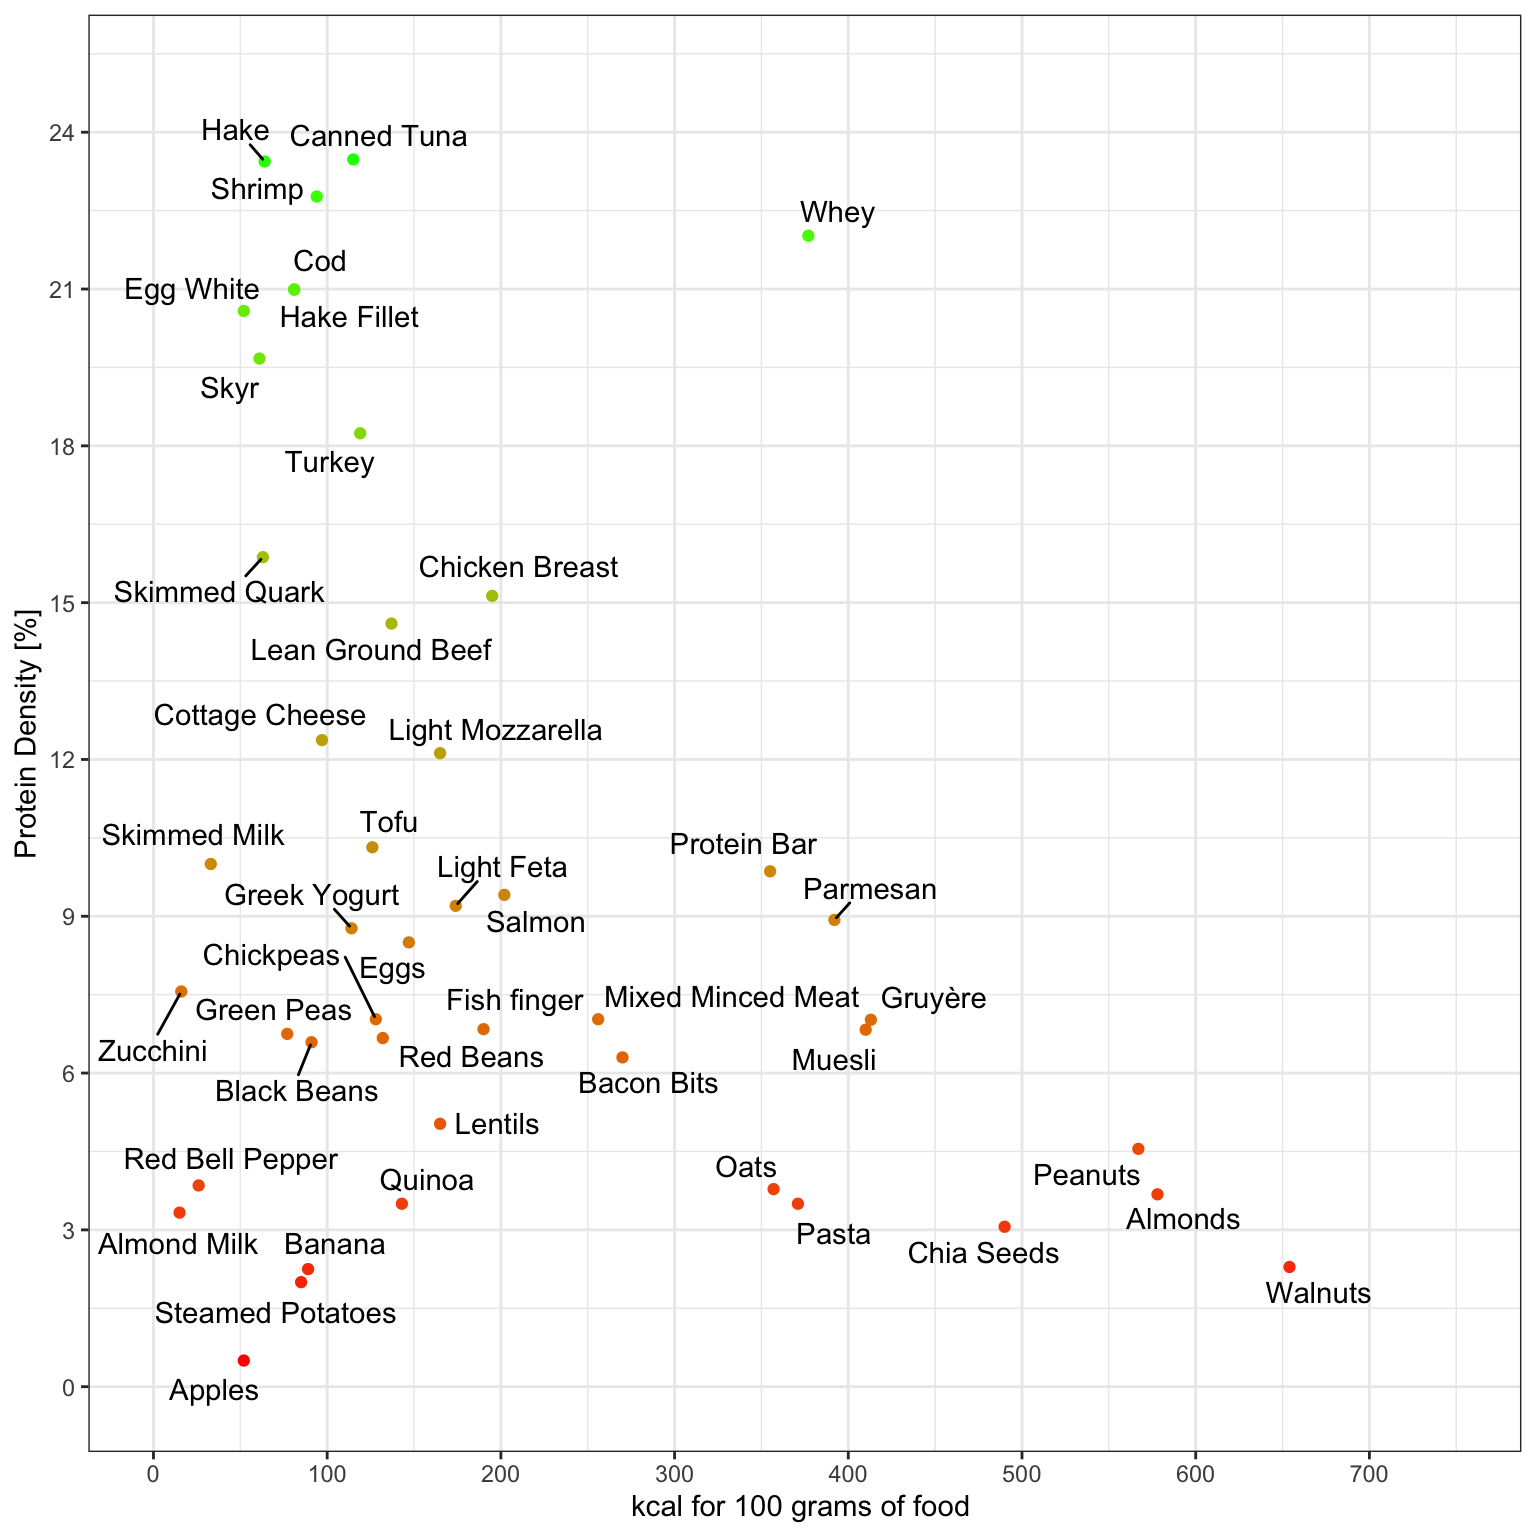
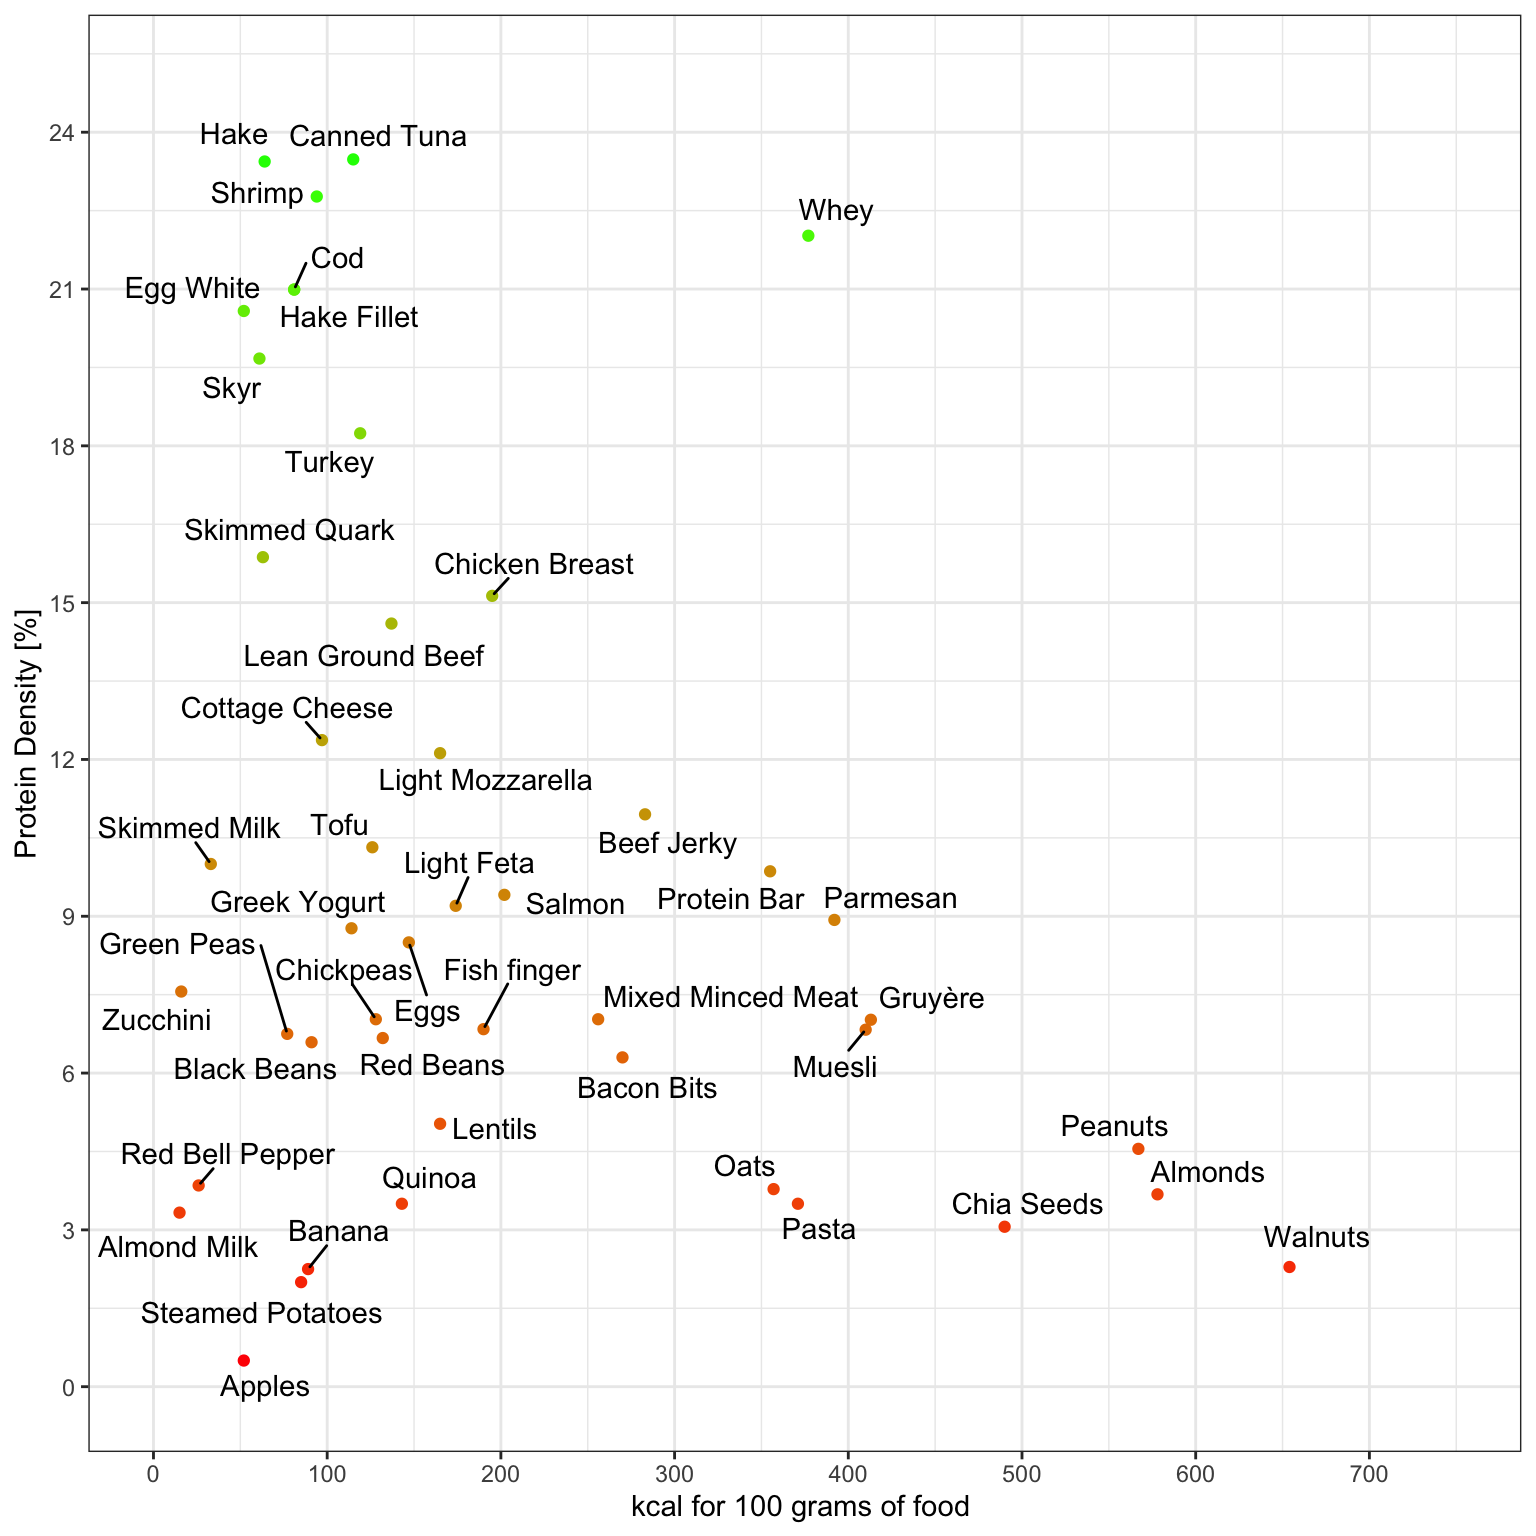
adding beef jerky

diff --git a/dashboard.html b/dashboard.html
@@ -7,7 +7,7 @@
 <meta name="viewport" content="width=device-width, initial-scale=1.0, user-scalable=yes">
 
 <meta name="author" content="Andrés A.">
-<meta name="dcterms.date" content="2024-10-04">
+<meta name="dcterms.date" content="2024-11-27">
 
 <title>NutriPlot</title>
 <style>
@@ -116,7 +116,7 @@ pre > code.sourceCode > span > a:first-child::before { text-decoration: underlin
     <div>
     <div class="quarto-title-meta-heading">Published</div>
     <div class="quarto-title-meta-contents">
-      <p class="date">October 4, 2024</p>
+      <p class="date">November 27, 2024</p>
     </div>
   </div>
   
@@ -219,8 +219,8 @@ Figure&nbsp;1: for 100g of content
 <span id="cb2-13"><a href="#cb2-13" aria-hidden="true" tabindex="-1"></a>t</span></code><button title="Copy to Clipboard" class="code-copy-button"><i class="bi"></i></button></pre></div>
 </details>
 <div class="cell-output-display">
-<div class="datatables html-widget html-fill-item" id="htmlwidget-0002924cc18f55c230c9" style="width:100%;height:auto;"></div>
-<script type="application/json" data-for="htmlwidget-0002924cc18f55c230c9">{"x":{"crosstalkOptions":{"key":["1","2","3","4","5","6","7","8","9","10","11","12","13","14","15","16","17","18","19","20","21","22","23","24","25","26","27","28","29","30","31","32","33","34","35","36","37","38","39","40","41","42","43","44","45"],"group":"SharedData7daa4e6b"},"filter":"top","vertical":false,"filterHTML":"<tr>\n  <td data-type=\"character\" style=\"vertical-align: top;\">\n    <div class=\"form-group has-feedback\" style=\"margin-bottom: auto;\">\n      <input type=\"search\" placeholder=\"All\" class=\"form-control\" style=\"width: 100%;\"/>\n      <span class=\"glyphicon glyphicon-remove-circle form-control-feedback\"><\/span>\n    <\/div>\n  <\/td>\n  <td data-type=\"number\" style=\"vertical-align: top;\">\n    <div class=\"form-group has-feedback\" style=\"margin-bottom: auto;\">\n      <input type=\"search\" placeholder=\"All\" class=\"form-control\" style=\"width: 100%;\"/>\n      <span class=\"glyphicon glyphicon-remove-circle form-control-feedback\"><\/span>\n    <\/div>\n    <div style=\"display: none;position: absolute;width: 200px;opacity: 1\">\n      <div data-min=\"15\" data-max=\"654\"><\/div>\n      <span style=\"float: left;\"><\/span>\n      <span style=\"float: right;\"><\/span>\n    <\/div>\n  <\/td>\n  <td data-type=\"number\" style=\"vertical-align: top;\">\n    <div class=\"form-group has-feedback\" style=\"margin-bottom: auto;\">\n      <input type=\"search\" placeholder=\"All\" class=\"form-control\" style=\"width: 100%;\"/>\n      <span class=\"glyphicon glyphicon-remove-circle form-control-feedback\"><\/span>\n    <\/div>\n    <div style=\"display: none;position: absolute;width: 200px;opacity: 1\">\n      <div data-min=\"0.26\" data-max=\"83\" data-scale=\"2\"><\/div>\n      <span style=\"float: left;\"><\/span>\n      <span style=\"float: right;\"><\/span>\n    <\/div>\n  <\/td>\n  <td data-type=\"number\" style=\"vertical-align: top;\">\n    <div class=\"form-group has-feedback\" style=\"margin-bottom: auto;\">\n      <input type=\"search\" placeholder=\"All\" class=\"form-control\" style=\"width: 100%;\"/>\n      <span class=\"glyphicon glyphicon-remove-circle form-control-feedback\"><\/span>\n    <\/div>\n    <div style=\"display: none;position: absolute;width: 200px;opacity: 1\">\n      <div data-min=\"0.5\" data-max=\"23.48\" data-scale=\"2\"><\/div>\n      <span style=\"float: left;\"><\/span>\n      <span style=\"float: right;\"><\/span>\n    <\/div>\n  <\/td>\n<\/tr>","data":[["Canned Tuna","Hake","Shrimp","Whey","Cod","Hake Fillet","Egg White","Skyr","Turkey","Skimmed Quark","Chicken Breast","Lean Ground Beef","Cottage Cheese","Light Mozzarella","Tofu","Skimmed Milk","Protein Bar","Salmon","Light Feta","Parmesan","Greek Yogurt","Eggs","Zucchini","Chickpeas","Mixed Minced Meat","Gruyère","Fish finger","Muesli","Green Peas","Red Beans","Black Beans","Bacon Bits","Lentils","Peanuts","Red Bell Pepper","Oats","Almonds","Quinoa","Pasta","Almond Milk","Chia Seeds","Walnuts","Banana","Steamed Potatoes","Apples"],[115,64,94,377,81,81,52,61,119,63,195,137,97,165,126,33,355,202,174,392,114,147,16,128,256,413,190,410,77,132,91,270,165,567,26,357,578,143,371,15,490,654,89,85,52],[27,15,21.4,83,17,17,10.7,12,21.7,10,29.5,20,12,20,13,3.3,35,19,16,35,10,12.5,1.21,9,18,29,13,28,5.2,8.800000000000001,6,17,8.300000000000001,25.8,1,13.5,21.26,5,13,0.5,15,15,2,1.7,0.26],[23.48,23.44,22.77,22.02,20.99,20.99,20.58,19.67,18.24,15.87,15.13,14.6,12.37,12.12,10.32,10,9.859999999999999,9.41,9.199999999999999,8.93,8.77,8.5,7.56,7.03,7.03,7.02,6.84,6.83,6.75,6.67,6.59,6.3,5.03,4.55,3.85,3.78,3.68,3.5,3.5,3.33,3.06,2.29,2.25,2,0.5]],"container":"<table class=\"display\">\n  <thead>\n    <tr>\n      <th>names<\/th>\n      <th>Kcal for 100g<\/th>\n      <th>grams protein for 100g of food<\/th>\n      <th>Protein Density [%]<\/th>\n    <\/tr>\n  <\/thead>\n<\/table>","options":{"paging":true,"pageLength":20,"dom":"t","scrollX":true,"columnDefs":[{"className":"dt-right","targets":[1,2,3]},{"name":"name","targets":0},{"name":"kcal_per_100g","targets":1},{"name":"prot_per_100g","targets":2},{"name":"perc_prot","targets":3}],"order":[],"autoWidth":false,"orderClasses":false,"orderCellsTop":true,"lengthMenu":[10,20,25,50,100]},"selection":{"mode":"single","selected":null,"target":"row","selectable":null}},"evals":[],"jsHooks":[]}</script>
+<div class="datatables html-widget html-fill-item" id="htmlwidget-ee772189efb82c037960" style="width:100%;height:auto;"></div>
+<script type="application/json" data-for="htmlwidget-ee772189efb82c037960">{"x":{"crosstalkOptions":{"key":["1","2","3","4","5","6","7","8","9","10","11","12","13","14","15","16","17","18","19","20","21","22","23","24","25","26","27","28","29","30","31","32","33","34","35","36","37","38","39","40","41","42","43","44","45","46"],"group":"SharedDatac4ecafcd"},"filter":"top","vertical":false,"filterHTML":"<tr>\n  <td data-type=\"character\" style=\"vertical-align: top;\">\n    <div class=\"form-group has-feedback\" style=\"margin-bottom: auto;\">\n      <input type=\"search\" placeholder=\"All\" class=\"form-control\" style=\"width: 100%;\"/>\n      <span class=\"glyphicon glyphicon-remove-circle form-control-feedback\"><\/span>\n    <\/div>\n  <\/td>\n  <td data-type=\"number\" style=\"vertical-align: top;\">\n    <div class=\"form-group has-feedback\" style=\"margin-bottom: auto;\">\n      <input type=\"search\" placeholder=\"All\" class=\"form-control\" style=\"width: 100%;\"/>\n      <span class=\"glyphicon glyphicon-remove-circle form-control-feedback\"><\/span>\n    <\/div>\n    <div style=\"display: none;position: absolute;width: 200px;opacity: 1\">\n      <div data-min=\"15\" data-max=\"654\"><\/div>\n      <span style=\"float: left;\"><\/span>\n      <span style=\"float: right;\"><\/span>\n    <\/div>\n  <\/td>\n  <td data-type=\"number\" style=\"vertical-align: top;\">\n    <div class=\"form-group has-feedback\" style=\"margin-bottom: auto;\">\n      <input type=\"search\" placeholder=\"All\" class=\"form-control\" style=\"width: 100%;\"/>\n      <span class=\"glyphicon glyphicon-remove-circle form-control-feedback\"><\/span>\n    <\/div>\n    <div style=\"display: none;position: absolute;width: 200px;opacity: 1\">\n      <div data-min=\"0.26\" data-max=\"83\" data-scale=\"2\"><\/div>\n      <span style=\"float: left;\"><\/span>\n      <span style=\"float: right;\"><\/span>\n    <\/div>\n  <\/td>\n  <td data-type=\"number\" style=\"vertical-align: top;\">\n    <div class=\"form-group has-feedback\" style=\"margin-bottom: auto;\">\n      <input type=\"search\" placeholder=\"All\" class=\"form-control\" style=\"width: 100%;\"/>\n      <span class=\"glyphicon glyphicon-remove-circle form-control-feedback\"><\/span>\n    <\/div>\n    <div style=\"display: none;position: absolute;width: 200px;opacity: 1\">\n      <div data-min=\"0.5\" data-max=\"23.48\" data-scale=\"2\"><\/div>\n      <span style=\"float: left;\"><\/span>\n      <span style=\"float: right;\"><\/span>\n    <\/div>\n  <\/td>\n<\/tr>","data":[["Canned Tuna","Hake","Shrimp","Whey","Cod","Hake Fillet","Egg White","Skyr","Turkey","Skimmed Quark","Chicken Breast","Lean Ground Beef","Cottage Cheese","Light Mozzarella","Beef Jerky","Tofu","Skimmed Milk","Protein Bar","Salmon","Light Feta","Parmesan","Greek Yogurt","Eggs","Zucchini","Chickpeas","Mixed Minced Meat","Gruyère","Fish finger","Muesli","Green Peas","Red Beans","Black Beans","Bacon Bits","Lentils","Peanuts","Red Bell Pepper","Oats","Almonds","Quinoa","Pasta","Almond Milk","Chia Seeds","Walnuts","Banana","Steamed Potatoes","Apples"],[115,64,94,377,81,81,52,61,119,63,195,137,97,165,283,126,33,355,202,174,392,114,147,16,128,256,413,190,410,77,132,91,270,165,567,26,357,578,143,371,15,490,654,89,85,52],[27,15,21.4,83,17,17,10.7,12,21.7,10,29.5,20,12,20,31,13,3.3,35,19,16,35,10,12.5,1.21,9,18,29,13,28,5.2,8.800000000000001,6,17,8.300000000000001,25.8,1,13.5,21.26,5,13,0.5,15,15,2,1.7,0.26],[23.48,23.44,22.77,22.02,20.99,20.99,20.58,19.67,18.24,15.87,15.13,14.6,12.37,12.12,10.95,10.32,10,9.859999999999999,9.41,9.199999999999999,8.93,8.77,8.5,7.56,7.03,7.03,7.02,6.84,6.83,6.75,6.67,6.59,6.3,5.03,4.55,3.85,3.78,3.68,3.5,3.5,3.33,3.06,2.29,2.25,2,0.5]],"container":"<table class=\"display\">\n  <thead>\n    <tr>\n      <th>names<\/th>\n      <th>Kcal for 100g<\/th>\n      <th>grams protein for 100g of food<\/th>\n      <th>Protein Density [%]<\/th>\n    <\/tr>\n  <\/thead>\n<\/table>","options":{"paging":true,"pageLength":20,"dom":"t","scrollX":true,"columnDefs":[{"className":"dt-right","targets":[1,2,3]},{"name":"name","targets":0},{"name":"kcal_per_100g","targets":1},{"name":"prot_per_100g","targets":2},{"name":"perc_prot","targets":3}],"order":[],"autoWidth":false,"orderClasses":false,"orderCellsTop":true,"lengthMenu":[10,20,25,50,100]},"selection":{"mode":"single","selected":null,"target":"row","selectable":null}},"evals":[],"jsHooks":[]}</script>
 <p>Table</p>
 </div>
 </div>
